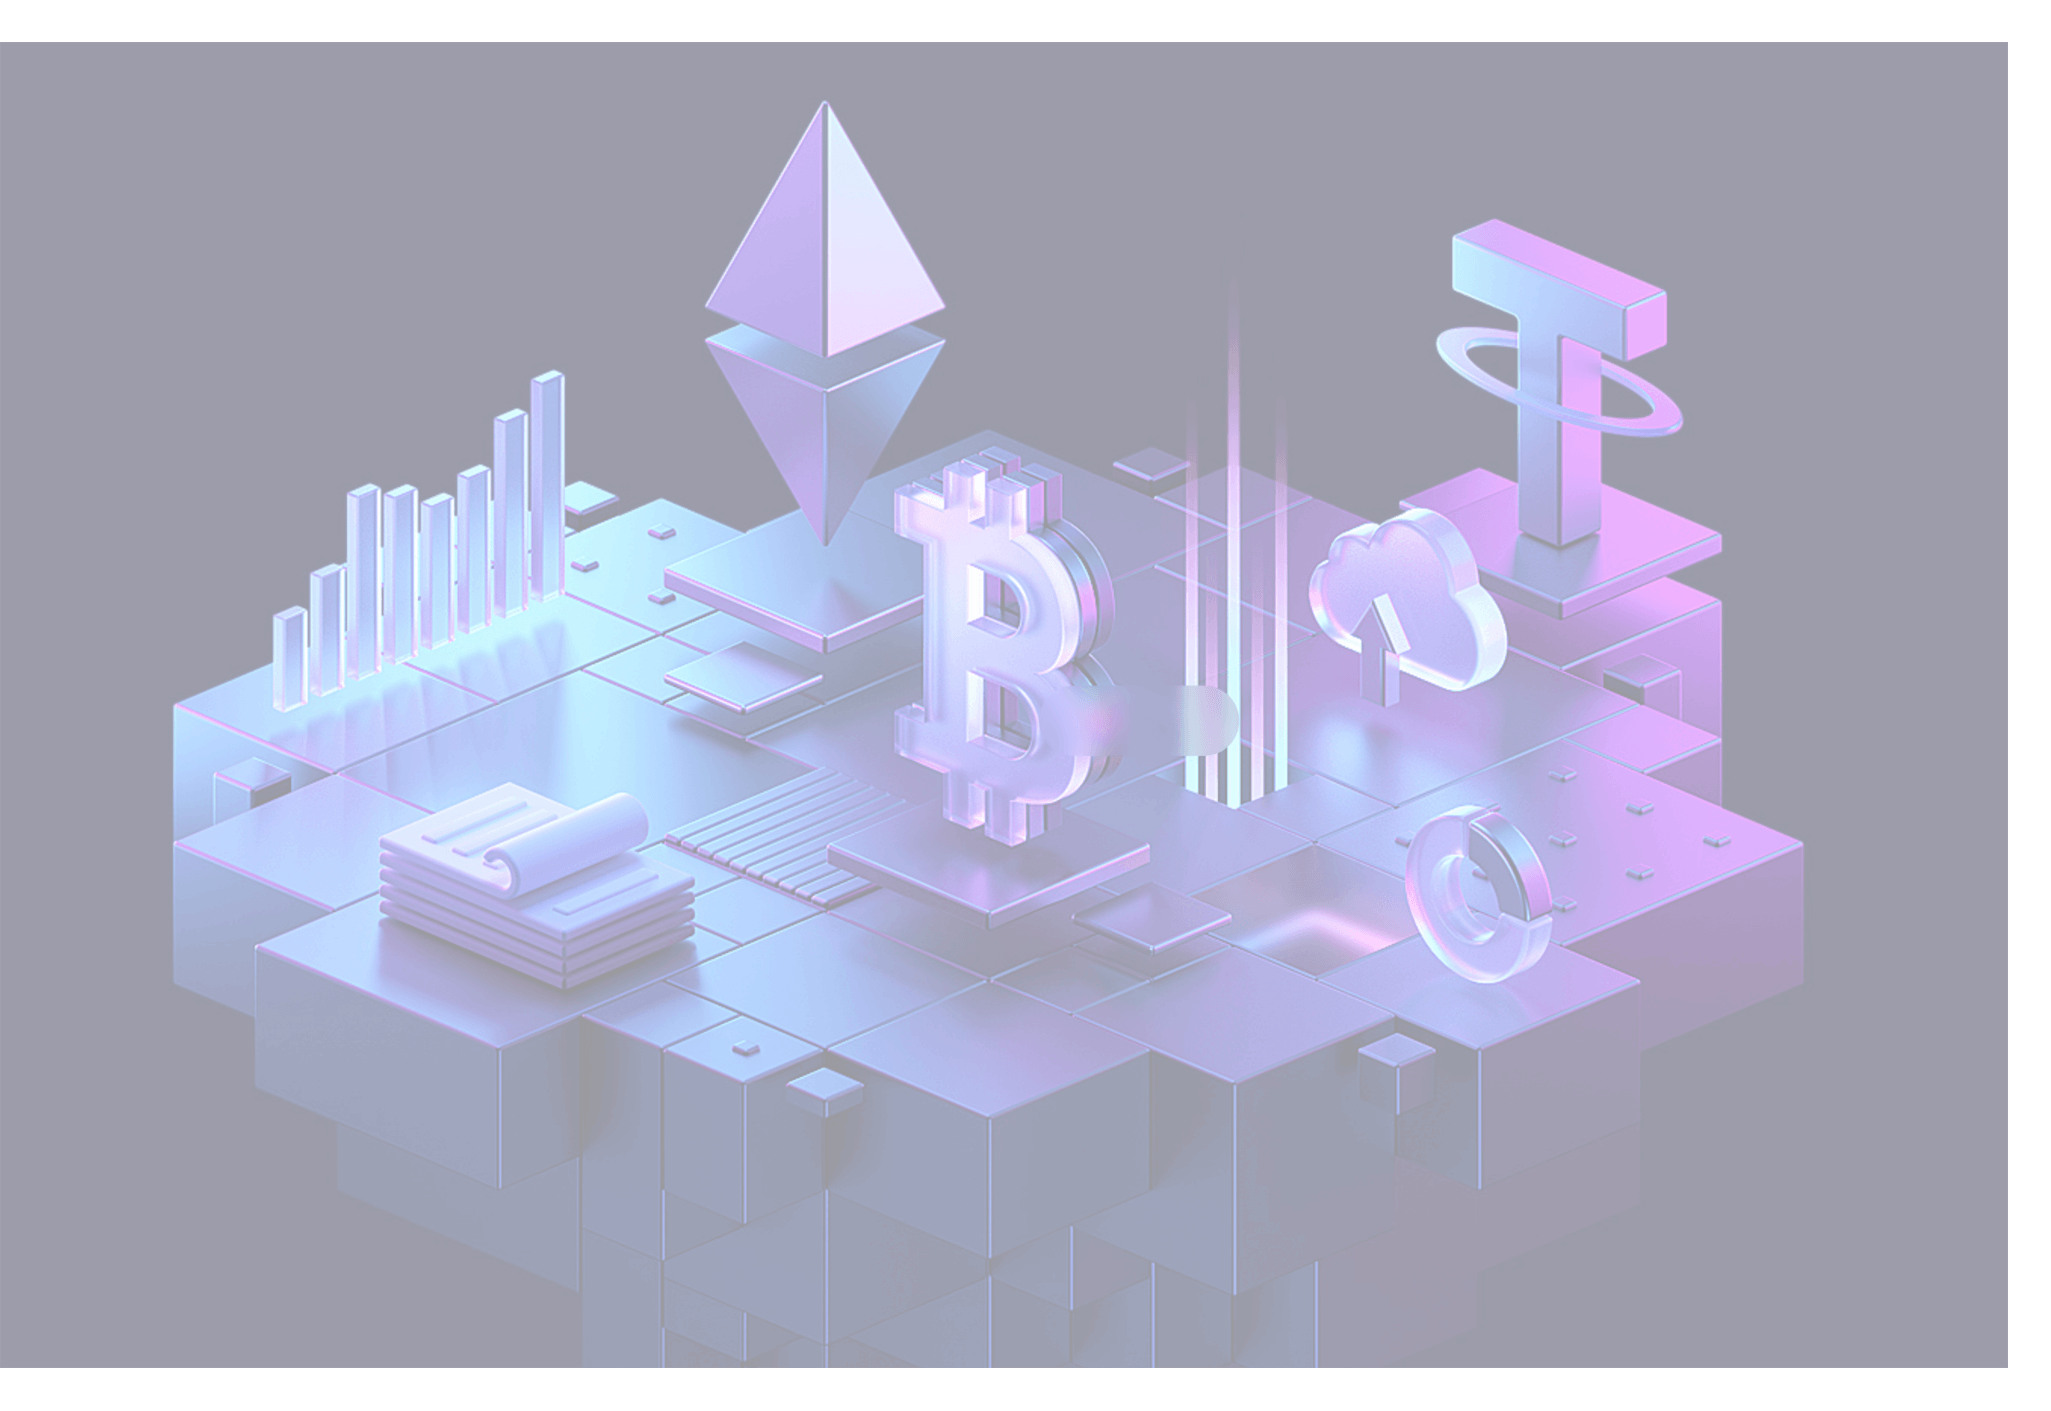
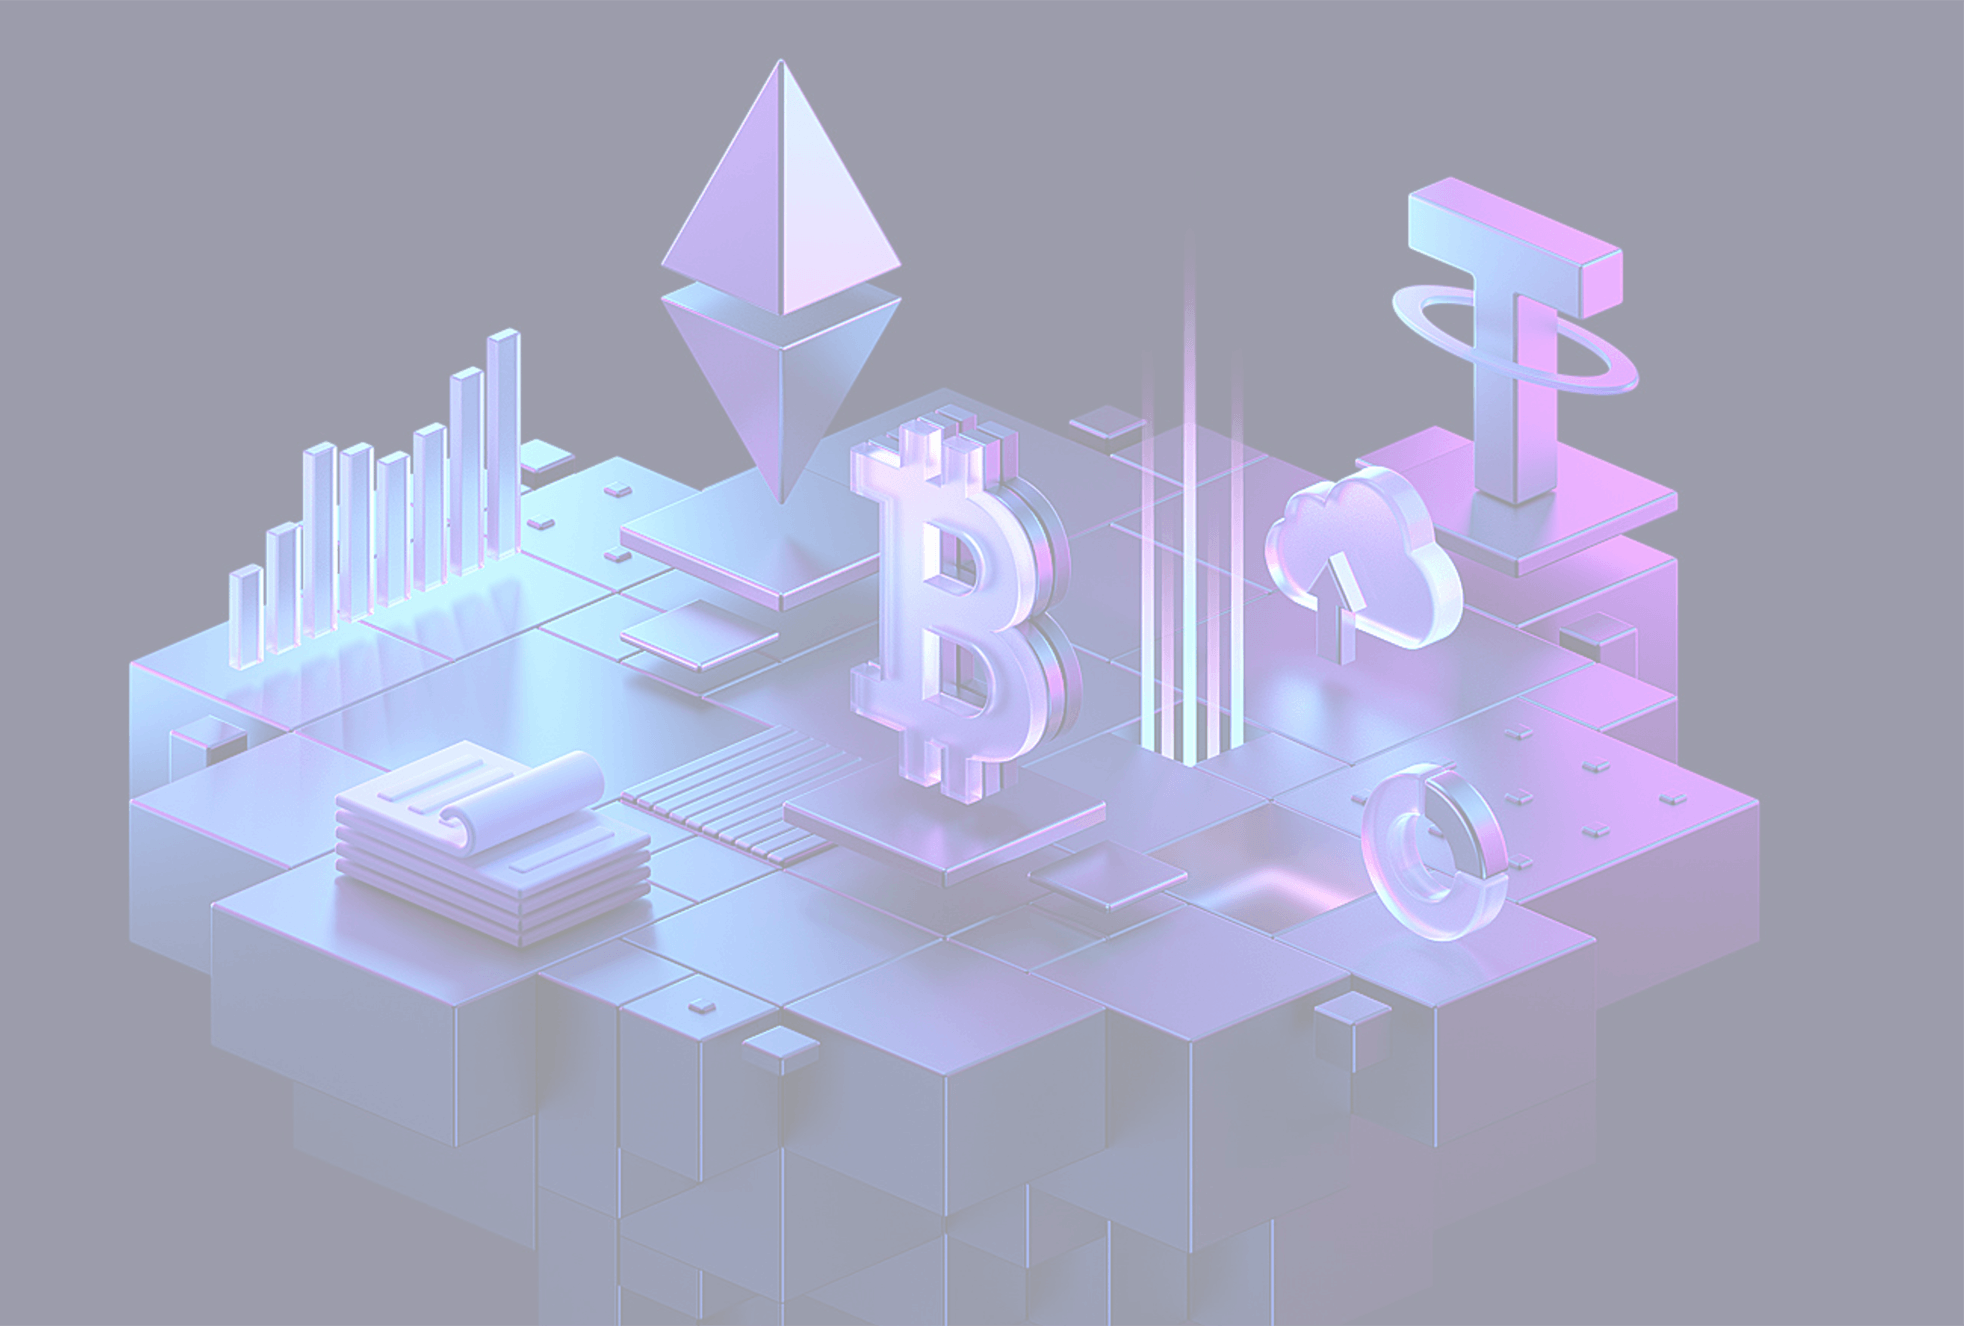
fixc

Changed region(s): [[0.0, 0.0, 1.0, 1.0]]

diff --git a/src/pages/index.less b/src/pages/index.less
@@ -3,7 +3,7 @@
   background-image: url(../assets/bg.png);
   background-size: 100vw auto;
   background-repeat: no-repeat;
-  background-position-y: -53px;
+  // background-position-y: -53px;
   .pageTitle {
     z-index: 2;
     position: relative;
